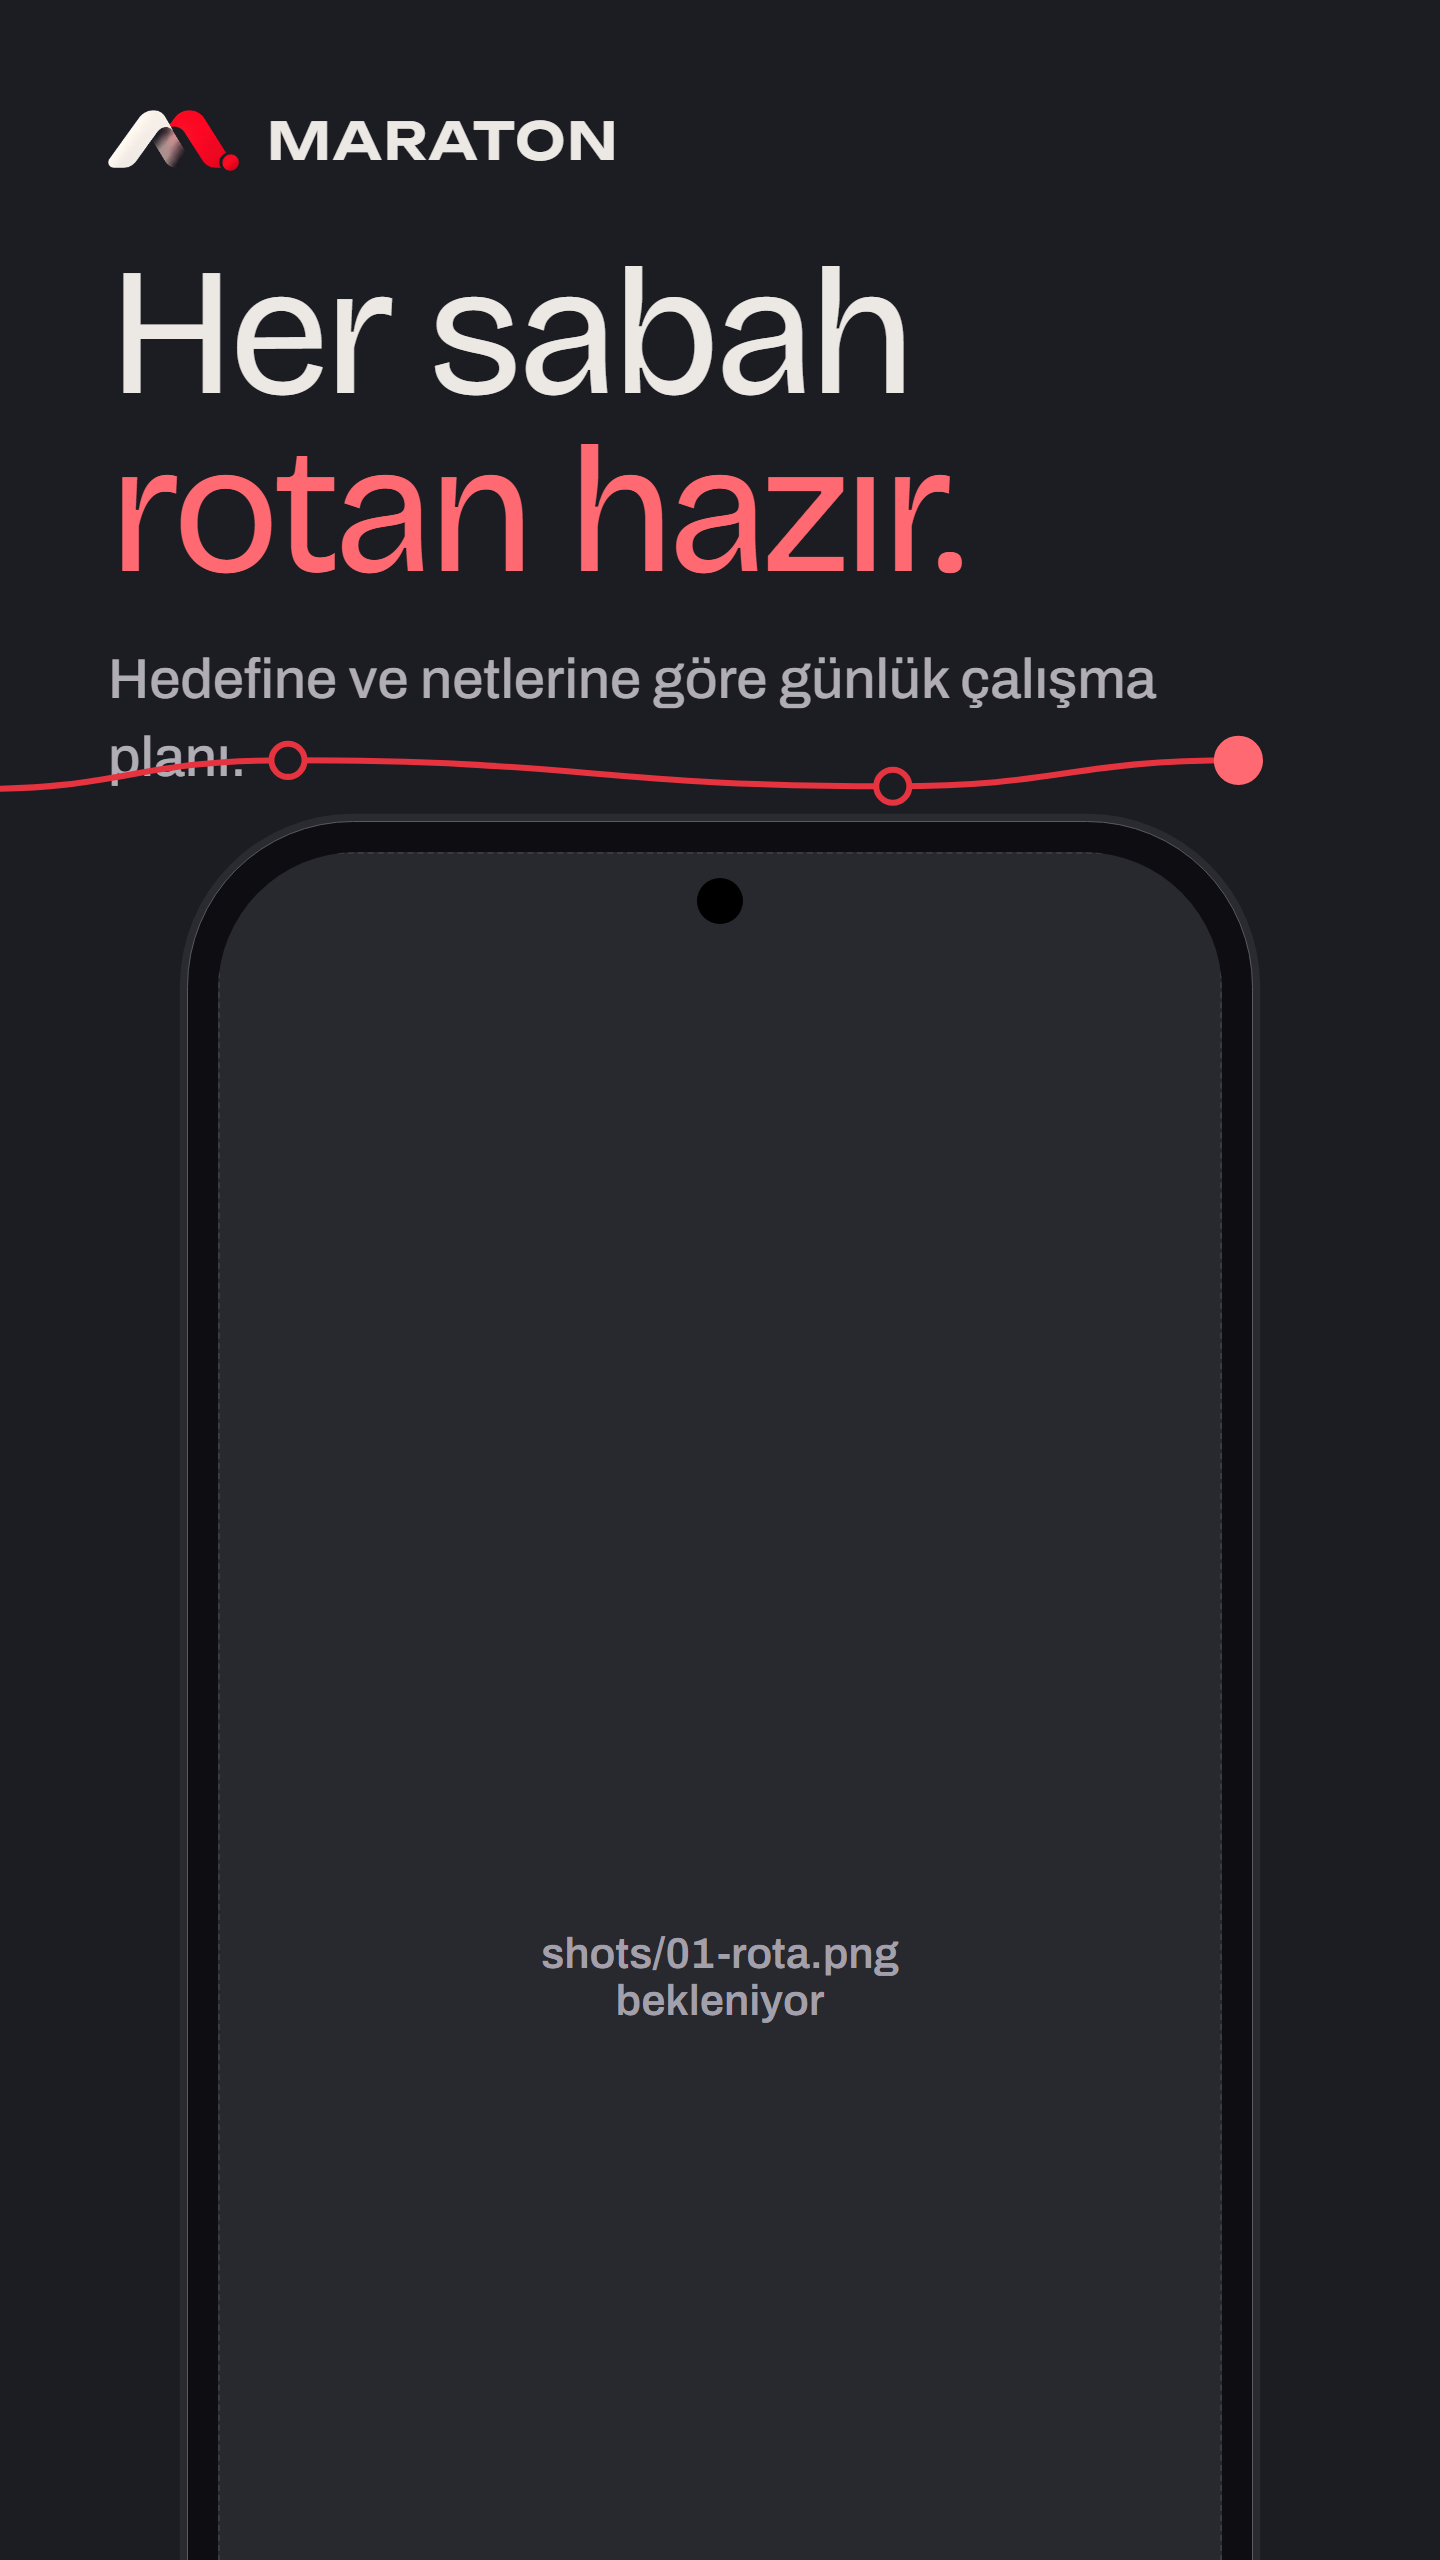
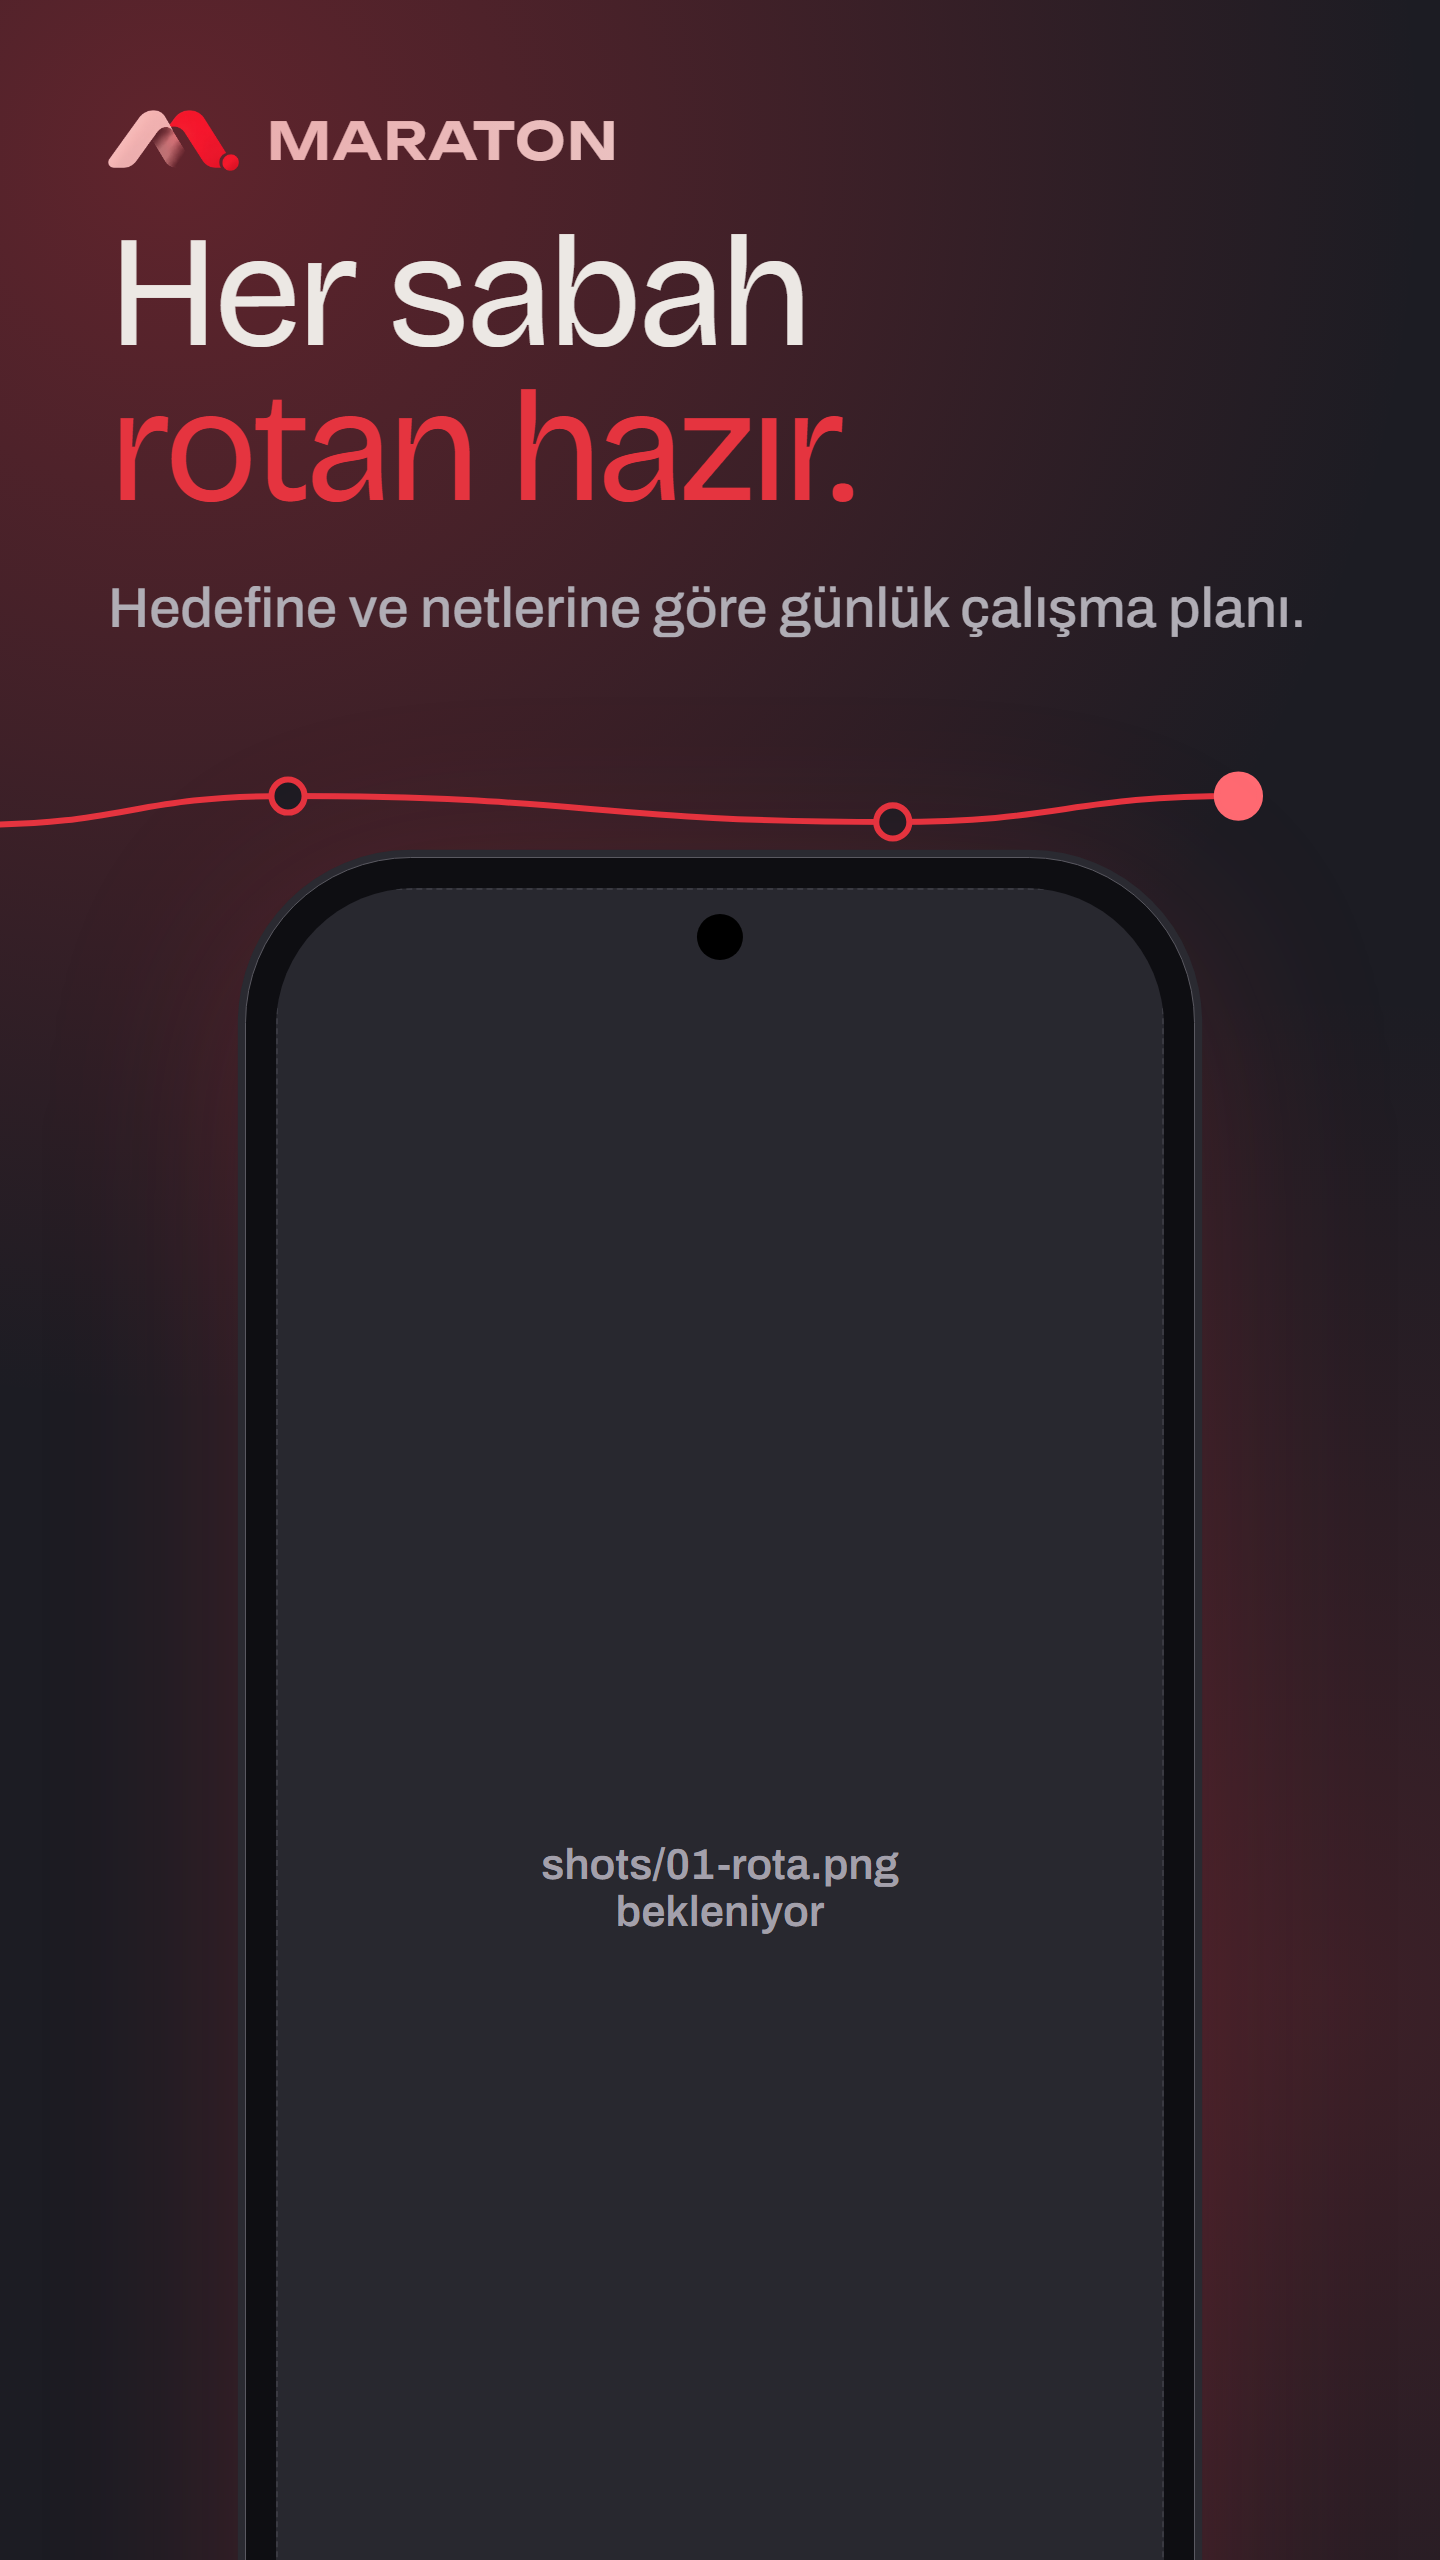
style(magaza): ekran goruntusu cercevesi canli kizil isikli zemin, baslik ana renk, alt satir rota cizgisiyle cakismiyor

diff --git a/store/visuals/frames/frame.js b/store/visuals/frames/frame.js
@@ -25,23 +25,33 @@
   c.append(brand);
 
   // Başlık + alt satır
+  // Zemin isigi: sol ustten yayilan kizil hale, sag altta daha silik ikinci (canli ama tek renk).
+  c.append(el('div', null, { position: 'absolute', inset: 0,
+    background: 'radial-gradient(circle at 12% 6%, rgba(229,52,63,.34), transparent 46%),'
+      + 'radial-gradient(circle at 92% 78%, rgba(229,52,63,.16), transparent 42%)' }));
+
   const tall = H / W > 2;
-  const headTop = tall ? 20 : 17;
-  const h1 = el('h1', null, { left: px(7.5), top: px(headTop), fontSize: px(12.6), whiteSpace: 'nowrap' },
+  // Alt satir (2 satira kadar) ile rota cizgisi arasinda bosluk kalsin
+  // (eskiden 'plani.' cizginin ustune biniyordu).
+  const headTop = tall ? 20 : 15;
+  const headSize = tall ? 12.6 : 11;
+  const subTop = headTop + headSize * 2 * 0.98 + 3;
+  const h1 = el('h1', null, { left: px(7.5), top: px(headTop), fontSize: px(headSize), whiteSpace: 'nowrap' },
     `${S.a}<em>${S.b}</em>`);
   c.append(h1);
   document.fonts.ready.then(() => {
     const max = 85 * u;
-    if (h1.offsetWidth > max) h1.style.fontSize = 12.6 * u * (max / h1.offsetWidth) + 'px';
+    if (h1.offsetWidth > max) h1.style.fontSize = headSize * u * (max / h1.offsetWidth) + 'px';
   });
-  c.append(el('p', 'sub', { left: px(7.5), top: px(headTop + 27.5), fontSize: px(3.9), width: px(80) }, S.sub));
+  c.append(el('p', 'sub', { left: px(7.5), top: px(subTop), fontSize: px(3.9), width: px(85) }, S.sub));
 
-  // Telefon
-  const phoneTop = tall ? 61 : 57;
-  const phoneW = 74, phoneL = (100 - phoneW) / 2, bez = 2.1;
+  // Telefon: alt satirin bitisi (2 satir) + rota cizgisi payi
+  const phoneTop = subTop + 2 * 3.9 * 1.4 + 9;
+  const phoneW = tall ? 74 : 66, phoneL = (100 - phoneW) / 2, bez = 2.1;
   const phone = el('div', 'phone', {
     left: px(phoneL), top: px(phoneTop), width: px(phoneW), height: px(phoneW * 2.17),
-    borderRadius: px(11.5), boxShadow: `0 0 0 ${px(0.5)} #2A2A31`,
+    borderRadius: px(11.5),
+    boxShadow: `0 0 0 ${px(0.5)} #2A2A31, 0 ${px(3)} ${px(14)} rgba(229,52,63,.22)`,
   });
   const screen = el('div', 'screen', {
     left: px(bez), top: px(bez), right: px(bez), bottom: px(bez), borderRadius: px(9.6),

diff --git a/store/visuals/frames/frame.html b/store/visuals/frames/frame.html
@@ -21,7 +21,7 @@
   .brand span { font: 600 1em Archivo; letter-spacing: .16em; color: var(--text2); }
   h1 { position: absolute; font-family: Bricolage; font-weight: 400; color: var(--text);
        letter-spacing: -.04em; line-height: .98; font-variant-numeric: tabular-nums; }
-  h1 em { font-style: normal; color: var(--accentText); display: block; }
+  h1 em { font-style: normal; color: var(--accent); display: block; }
   p.sub { position: absolute; font: 500 1em/1.4 Archivo; color: var(--text2); }
   svg.route { position: absolute; left: 0; overflow: visible; }
   .phone { position: absolute; background: #0E0E12; border: 1px solid var(--border); overflow: hidden; }
